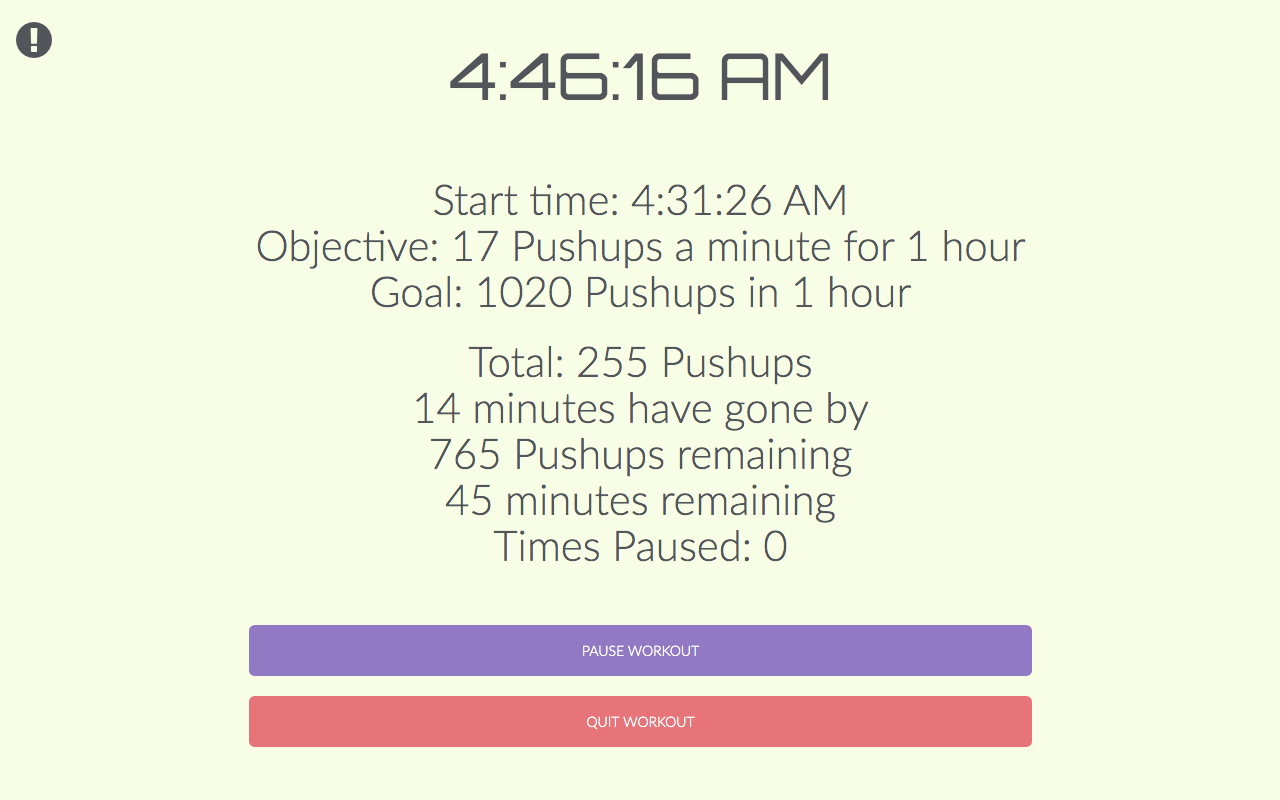
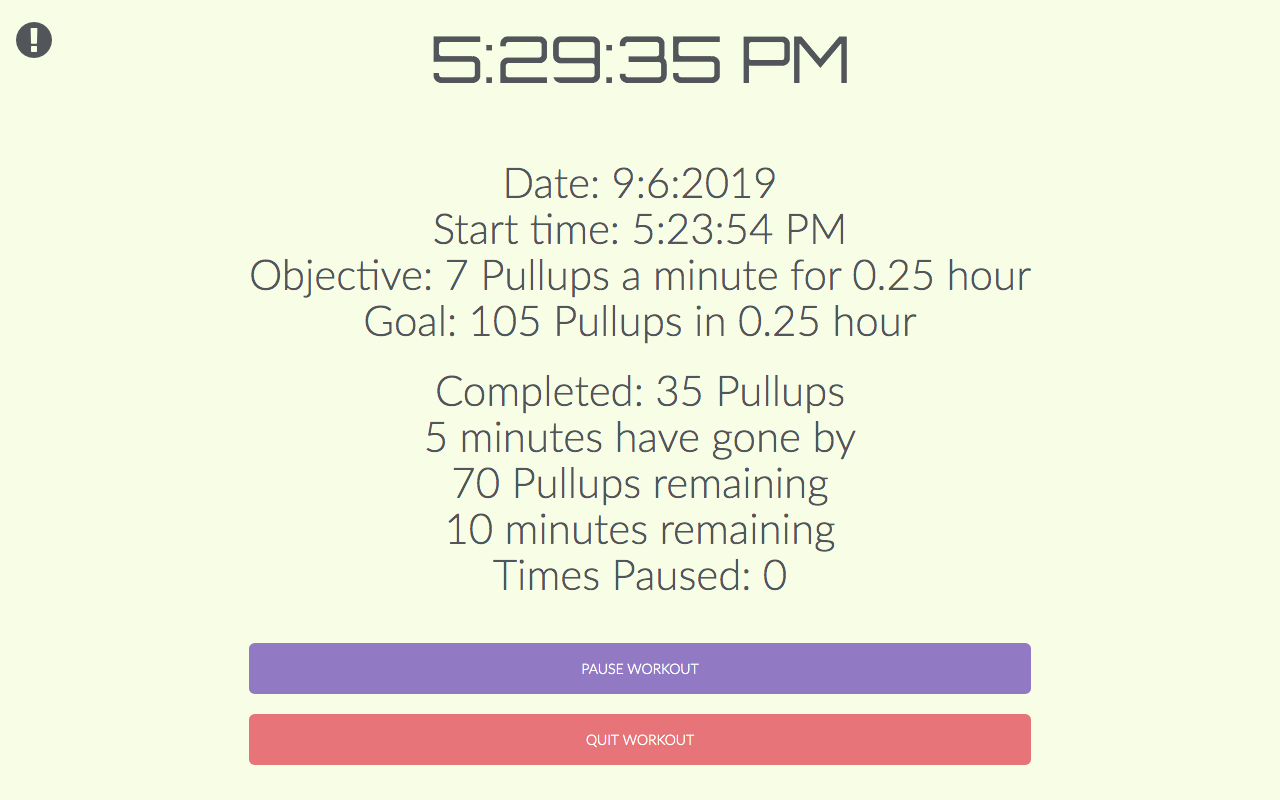
share your workout

Changed region(s): [[0.1875, 0.1875, 0.8125, 0.75], [0.1875, 0.7812, 0.8125, 0.9688], [0.3438, 0.0312, 0.6875, 0.125]]

diff --git a/share.html b/share.html
@@ -1,0 +1,106 @@
+<!DOCTYPE html>
+<html>
+  <head>
+    <title>Shared Workout Log: </title>
+    <meta charset="utf-8">
+    <meta name="viewport" content="initial-scale=1.0">
+    <meta name="description" content="A new way to challenge yourself in the gym!">
+    <meta name="author" content="Michael Schwartz">
+    <meta http-equiv="X-UA-Compatible" content="IE=9" />
+    <link rel="stylesheet" href="libraries/normalize/normalize.css" />
+    <link rel="stylesheet" href="libraries/polyui/polyui.css">
+    <link rel="stylesheet" href="libraries/font-awesome/font-awesome.css" />
+    <link rel="stylesheet" href="libraries/font-awesome/macset.css" />
+    <link rel="stylesheet" href="libraries/sweetalert2/sweetalert2.min.css" />
+    <link rel="stylesheet" href="libraries/lity/lity.css">
+    <link rel="stylesheet" href="css/style.css" />
+    <link href="https://fonts.googleapis.com/css?family=Orbitron" rel="stylesheet">
+    <script src="libraries/jquery/jquery.js"></script>
+    <script src="libraries/jquery/jquery-migrate-1.2.1.min.js"></script>
+    <script src="libraries/filesaver/FileSaver.js"></script>
+    <script src="libraries/filesaver/Blob.js"></script>
+  </head>
+  <body class="tc">
+    <!-- Disclaimer -->
+    <h1 class="pointer headline-primary--grouped disclaimer" data-action="disclaimer" title="Disclaimer">
+      <i class="fa fa-exclamation-circle"></i>
+    </h1>
+    
+    <!-- Centered Game Area -->
+    <div class="table">
+      <div class="cell">
+        <div class="grid">
+          <div class="centered grid__col--9">
+           
+            <!-- Shared Workout -->
+            <div class="selectdropdowns startworkout">
+              <h1 class="center headline-primary--grouped">&nbsp;</h1>
+              <h1 class="center headline-primary--grouped" data-output="workoutlog"></h1>
+              <h1 class="center headline-primary--grouped">&nbsp;</h1>
+              
+              <a class="btn--info confirmdropdown fill" href="./index.html" data-start="workout" data-action="bounce" style="margin-left: 0;">
+                Start a workout
+              </a>
+            </div>
+          </div>
+        </div>
+
+        <div class="polyriseblock notgrid bg-overlay3" style="box-shadow: rgba(99, 121, 207, 0) 0px 0px 0px 1600px inset; padding: 2em 0px; background-color: rgb(255, 255, 255);">
+          <div class="grid">
+            <div class="panel--centered centered grid__col--12">
+              <h1 style="margin-bottom: .5em; text-transform: uppercase;" class="editable">Share This Workout!</h1>
+
+              <div style="font-size: 3rem;">
+                <a href="javascript:void(0)" data-shareto="facebook" style="color: #4862A3;">
+                  <i class="fa fa-facebook"></i>
+                </a>
+                &nbsp;
+                <a href="javascript:void(0)" data-shareto="twitter" style="color: #1DA1F2;">
+                  <i class="fa fa-twitter"></i>
+                </a>
+                &nbsp;
+                <a href="javascript:void(0)" data-shareto="googleplus" style="color: #c7654f;">
+                  <i class="fa fa-google-plus"></i>
+                </a>
+                &nbsp;
+                <a href="javascript:void(0)" data-shareto="linkedin" style="color: #0077B5;">
+                  <i class="fa fa-linkedin"></i>
+                </a>
+              </div>
+            </div>
+          </div>
+        </div>
+        <div class="polyriseblock notgrid bg-overlay3" style="box-shadow: rgba(99, 121, 207, 0) 0px 0px 0px 1600px inset; padding: 2em 0px; background-color: rgb(51, 51, 51);">
+          <div class="grid">
+            <div class="grid__col--12 tc">
+              <a href="http://michaelsboost.github.io/" target="_blank">
+                <img class="img--avatar ib" src="media/dev-avatar.png" style="height: 135px;" alt="Avatar">
+              </a>
+
+              <p class="whitetxt">
+                Made with <span class="fa fa-heart" style="color: #f66;"></span> and <span class="fa fa-coffee" style="color: #52bab3;"></span> by <a class="whitetxt" href="http://michaelsboost.github.io/" target="_blank"><u>Michael</u></a> &amp; others. &nbsp; <a href="https://github.com/michaelsboost/Michaels-Workout-App/" target="_blank" class="whitetxt">
+                  <u>
+                    <i class="fa fa-external-link"></i>
+                  </u>
+                </a>
+              </p>
+
+              <!-- Display Random Ads -->
+              <div style="padding-top: 30px;">
+                <script src="//michaelsboost.github.io/DynamicJSAds/ads.js" id="insertAds"></script>
+              </div>
+            </div>
+          </div>
+        </div>
+      </div>
+    </div>
+
+    <script src="libraries/alertifyjs/alertify.min.js"></script>
+    <script src="libraries/sweetalert2/sweetalert2.all.min.js"></script>
+    <script src="libraries/shortcut/shortcut.js"></script>
+    <script src="libraries/lity/lity.js"></script>
+    <script src="js/jquery.scrollintoview.js"></script>
+    <script src="js/share.js"></script>
+    <script src="js/detecthttp.js"></script>
+  </body>
+</html>

diff --git a/js/script.js b/js/script.js
@@ -58,6 +58,7 @@ var counter = 0, countPause = 1, chosenDifficulty,
       $("[data-confirm=quitworkout]").removeClass("hide");
       $("[data-confirm=newworkout]").addClass("hide");
       $("[data-save=workoutlog]").addClass("hide");
+      $("[data-share=workoutlog]").addClass("hide");
       $("[data-display=finish]").addClass("hide");
       return false;
     },
@@ -278,6 +279,18 @@ shortcut.add("left", function() {
 });
 
 // Save workout log hotkey
+shortcut.add("ctrl+e", function() {
+  if ($("[data-share=workoutlog]").is(":visible")) {
+    $("[data-share=workoutlog]").trigger("click");
+  }
+});
+shortcut.add("meta+e", function() {
+  if ($("[data-share=workoutlog]").is(":visible")) {
+    $("[data-share=workoutlog]").trigger("click");
+  }
+});
+
+// Share workout log hotkey
 shortcut.add("ctrl+s", function() {
   if ($("[data-save=workoutlog]").is(":visible")) {
     $("[data-save=workoutlog]").trigger("click");
@@ -390,6 +403,11 @@ function startWorkout() {
   ahora = new Date();
   tiempo = ahora.toLocaleTimeString();
   $("[data-output=starttime]").text(tiempo);
+  
+  today = new Date();
+  saveDate = today.getMonth() + 1 + ":" + today.getDate() + ":" + today.getFullYear();
+  $("[data-output=startdate]").text(saveDate);
+  
   $("[data-output=repspermin]").text(repspermin.value);
   if (howmanyhours.value <= "1") {
     $("[data-output=howmanyhours]").text(howmanyhours.value + " hour");
@@ -424,6 +442,7 @@ function startWorkout() {
       $("[data-display=finish]").removeClass("hide");
       $("[data-confirm=newworkout]").removeClass("hide");
       $("[data-save=workoutlog]").removeClass("hide");
+      $("[data-share=workoutlog]").removeClass("hide");
       $("[data-confirm=quitworkout]").addClass("hide");
       $("[data-confirm=pauseworkout]").addClass("hide");
       $("[data-output=finish]").text(time);
@@ -483,6 +502,7 @@ $("[data-confirm=quitworkout]").click(function() {
       $("[data-display=finish]").removeClass("hide");
       $("[data-confirm=newworkout]").removeClass("hide");
       $("[data-save=workoutlog]").removeClass("hide");
+      $("[data-share=workoutlog]").removeClass("hide");
       $(this).addClass("hide");
       $("[data-confirm=pauseworkout]").addClass("hide");
       $("[data-output=finish]").text(time);
@@ -537,7 +557,7 @@ $("[data-confirm=newworkout]").click(function() {
   }
 });
 
-// Save Workout Log
+// Save Workout Log As File
 $("[data-save=workoutlog]").click(function() {
   // User is saving workout log
   // Updating variable so user isn't prompted upon new workout
@@ -550,6 +570,19 @@ $("[data-save=workoutlog]").click(function() {
   workoutLog = $("[data-content=workoutlog]").text().trim().replace(/\s{2,}/gm,"\n").toString();
   blob = new Blob([ workoutLog ], {type: "text/plain"});
   saveAs(blob, "workout_log " + dateTime + ".txt");
+});
+
+// Share Workout Log To The Web
+$("[data-share=workoutlog]").click(function() {
+  workoutLog = $("[data-content=workoutlog]").text().trim().replace(/\s{2,}/gm,"\n").toString();
+  workoutLog = workoutLog.replace(/\n/g,"\\n");
+  workoutLog = workoutLog.replace(/ /g,"%20");
+
+  var link = document.createElement('a');
+//  link.href = "file:///Users/michael/Documents/GitHub/Michaels-Workout-App/share.html#" + workoutLog;
+  link.href = "http://michaelsboost.com/Michaels-Workout-App/share.html#" + workoutLog;
+  link.setAttribute('target', '_blank');
+  link.click();
 });
 
 // Animate button on click
@@ -571,5 +604,5 @@ function doBounce(element, times, distance, speed) {
 //$("[data-display=typeofworkout] #pushups").prop("checked", true).trigger("click");
 //$("[data-confirm=typeofworkout]").trigger("click");
 //repspermin.value = 17;
-//$("#howmanyhours").val("1").trigger("change");
+//$("#howmanyhours").val(".25").trigger("change");
 //$("[data-confirm=workoutparameters]").trigger("click");

diff --git a/js/share.js b/js/share.js
@@ -1,0 +1,63 @@
+// Variables
+var str, startTime,
+    testString = "Date: 9:6:2019\nStart time: 3:10:57 PM\nObjective: 17 pushups a minute for 1 hour\nGoal: 1020 pushups in 1 hour\nCompleted: 1020 pushups\n60 minutes have gone by\n0 pushups remaining\n0 minutes remaining\nTimes Paused: 0\nFinished at: 4:10:56 PM";
+
+// Disclaimer
+$("[data-action=disclaimer]").click(function() {
+  var msg1 = "I Michael Schwartz developed this workout app for myself and myself only!\n\n",
+      msg2 = "I am not held liable if you do any of the workouts listed in this app!\n\n",
+      msg3 = "By using this app you agree that you're doing these workouts by your own discression only!<br><br>",
+      msg4 = "Contribution and Source Code: <br><a href='https://github.com/michaelsboost/Michaels-Workout-App/' target='_blank'>https://github.com/michaelsboost/Michaels-Workout-App/</a>";
+      
+  Swal.fire({
+    title: "Disclaimer",
+    html: msg1 + msg2 + msg3 + msg4,
+    type: "warning"
+  });
+});
+
+// Check if page has a hash
+if (window.location.hash) {
+  // Grab the hash
+  str = window.location.hash;
+  str = str.substr(1, str.length);
+  str = str.replace(/%20/g, " ");
+  
+  startTime = str.substring(0, str.indexOf('\\n'));
+  startTime = startTime.replace(/Date: /g, "");
+  document.title = "Shared Workout Log: " + startTime;
+
+  // Display in workout log
+  $("[data-output=workoutlog]").html(str.replace(/\\n/g, "<br>"));
+} else {
+  // No hash? Then initialize new workout
+//  window.location.href = "./index.html";
+}
+
+// Share This Workout
+$("[data-shareTo]").on("click", function() {
+  var thisAttr = $(this).attr("data-shareTo").toLowerCase();
+  
+  if (thisAttr === "facebook") {
+    openInNewTab("https://www.facebook.com/sharer/sharer.php?u=" + site);
+  } else if (thisAttr === "twitter") {
+    openInNewTab("https://twitter.com/home?status=" + site);
+  } else if (thisAttr === "googleplus") {
+    openInNewTab("https://plus.google.com/share?url=" + site);
+  } else if (thisAttr === "linkedin") {
+    openInNewTab("https://www.linkedin.com/shareArticle?mini=true&url=" + site + "&title=&summary=&source=");
+  } else {
+    alertify.error("Unable to share, undetected social network");
+  }
+});
+
+// Animate button on click
+$("[data-action=bounce]").on("click", function() {
+  doBounce($(this), 2, '15px', 50);
+});
+function doBounce(element, times, distance, speed) {
+  for(i = 0; i < times; i++) {
+    element.animate({marginTop: '-='+distance},speed)
+           .animate({marginTop: '+='+distance},speed);
+  }        
+}

diff --git a/index.html b/index.html
@@ -205,6 +205,9 @@
               <p>&nbsp;</p>
               <div data-content="workoutlog">
                 <h1 class="center headline-primary--grouped">
+                  Date: <span data-output="startdate"></span>
+                </h1>
+                <h1 class="center headline-primary--grouped">
                   Start time: <span data-output="starttime"></span>
                 </h1>
                 <h1 class="center headline-primary--grouped">
@@ -237,6 +240,9 @@
               
               <button class="hide btn--info confirmdropdown fill" data-save="workoutlog" data-action="bounce" style="margin-left: 0;">
                 Save Workout Log
+              </button>
+              <button class="hide btn--info confirmdropdown fill" data-share="workoutlog" data-action="bounce" style="margin-left: 0; background-color: #6bb9d2;">
+                Share Workout Log
               </button>
               <button class="hide btn--info fill" data-confirm="newworkout" data-action="bounce" style="margin-left: 0;">
                 New Workout

diff --git a/css/style.css b/css/style.css
@@ -176,3 +176,6 @@ html, body {
 .fr {
   float: right;
 }
+.whitetxt {
+  color: #fff;
+}

diff --git a/README.md b/README.md
@@ -21,7 +21,12 @@ Then Execute!
 ![](https://raw.githubusercontent.com/michaelsboost/Michaels-Workout-App/gh-pages/screenshot4.png)
 ![](https://raw.githubusercontent.com/michaelsboost/Michaels-Workout-App/gh-pages/screenshot5.png)
 
-[Want to know what the saved file of your workout log looks like?](https://github.com/michaelsboost/Michaels-Workout-App/blob/gh-pages/workout_log%209_6_2019%205_30_26%20AM.txt)
+Share Your Workout!
+-------------
+
+![](https://raw.githubusercontent.com/michaelsboost/Michaels-Workout-App/gh-pages/screenshot6.png)
+
+[Want to know what the saved file of your workout log looks like?](https://github.com/michaelsboost/Michaels-Workout-App/blob/gh-pages/workout_log%209_6_2019%205_38_53%20AM.txt)
 -------------
 
 Version
@@ -43,8 +48,10 @@ Hotkeys
 * Escape - Initialize new workout
 * Spacebar - Pause/Resume workout
 * Spacebar - Initialize new workout
-* Ctrl+S - Save workout log  
-* Cmd+S  - Save workout log on a Mac  
+* Ctrl+S - Save workout log as text file  
+* Cmd+S  - Save workout log as text file on mac  
+* Ctrl+E - Share workout log  
+* Cmd+E  - Share workout log on mac  
 * Ctrl+N - Initialize new workout  
 
 Tech
